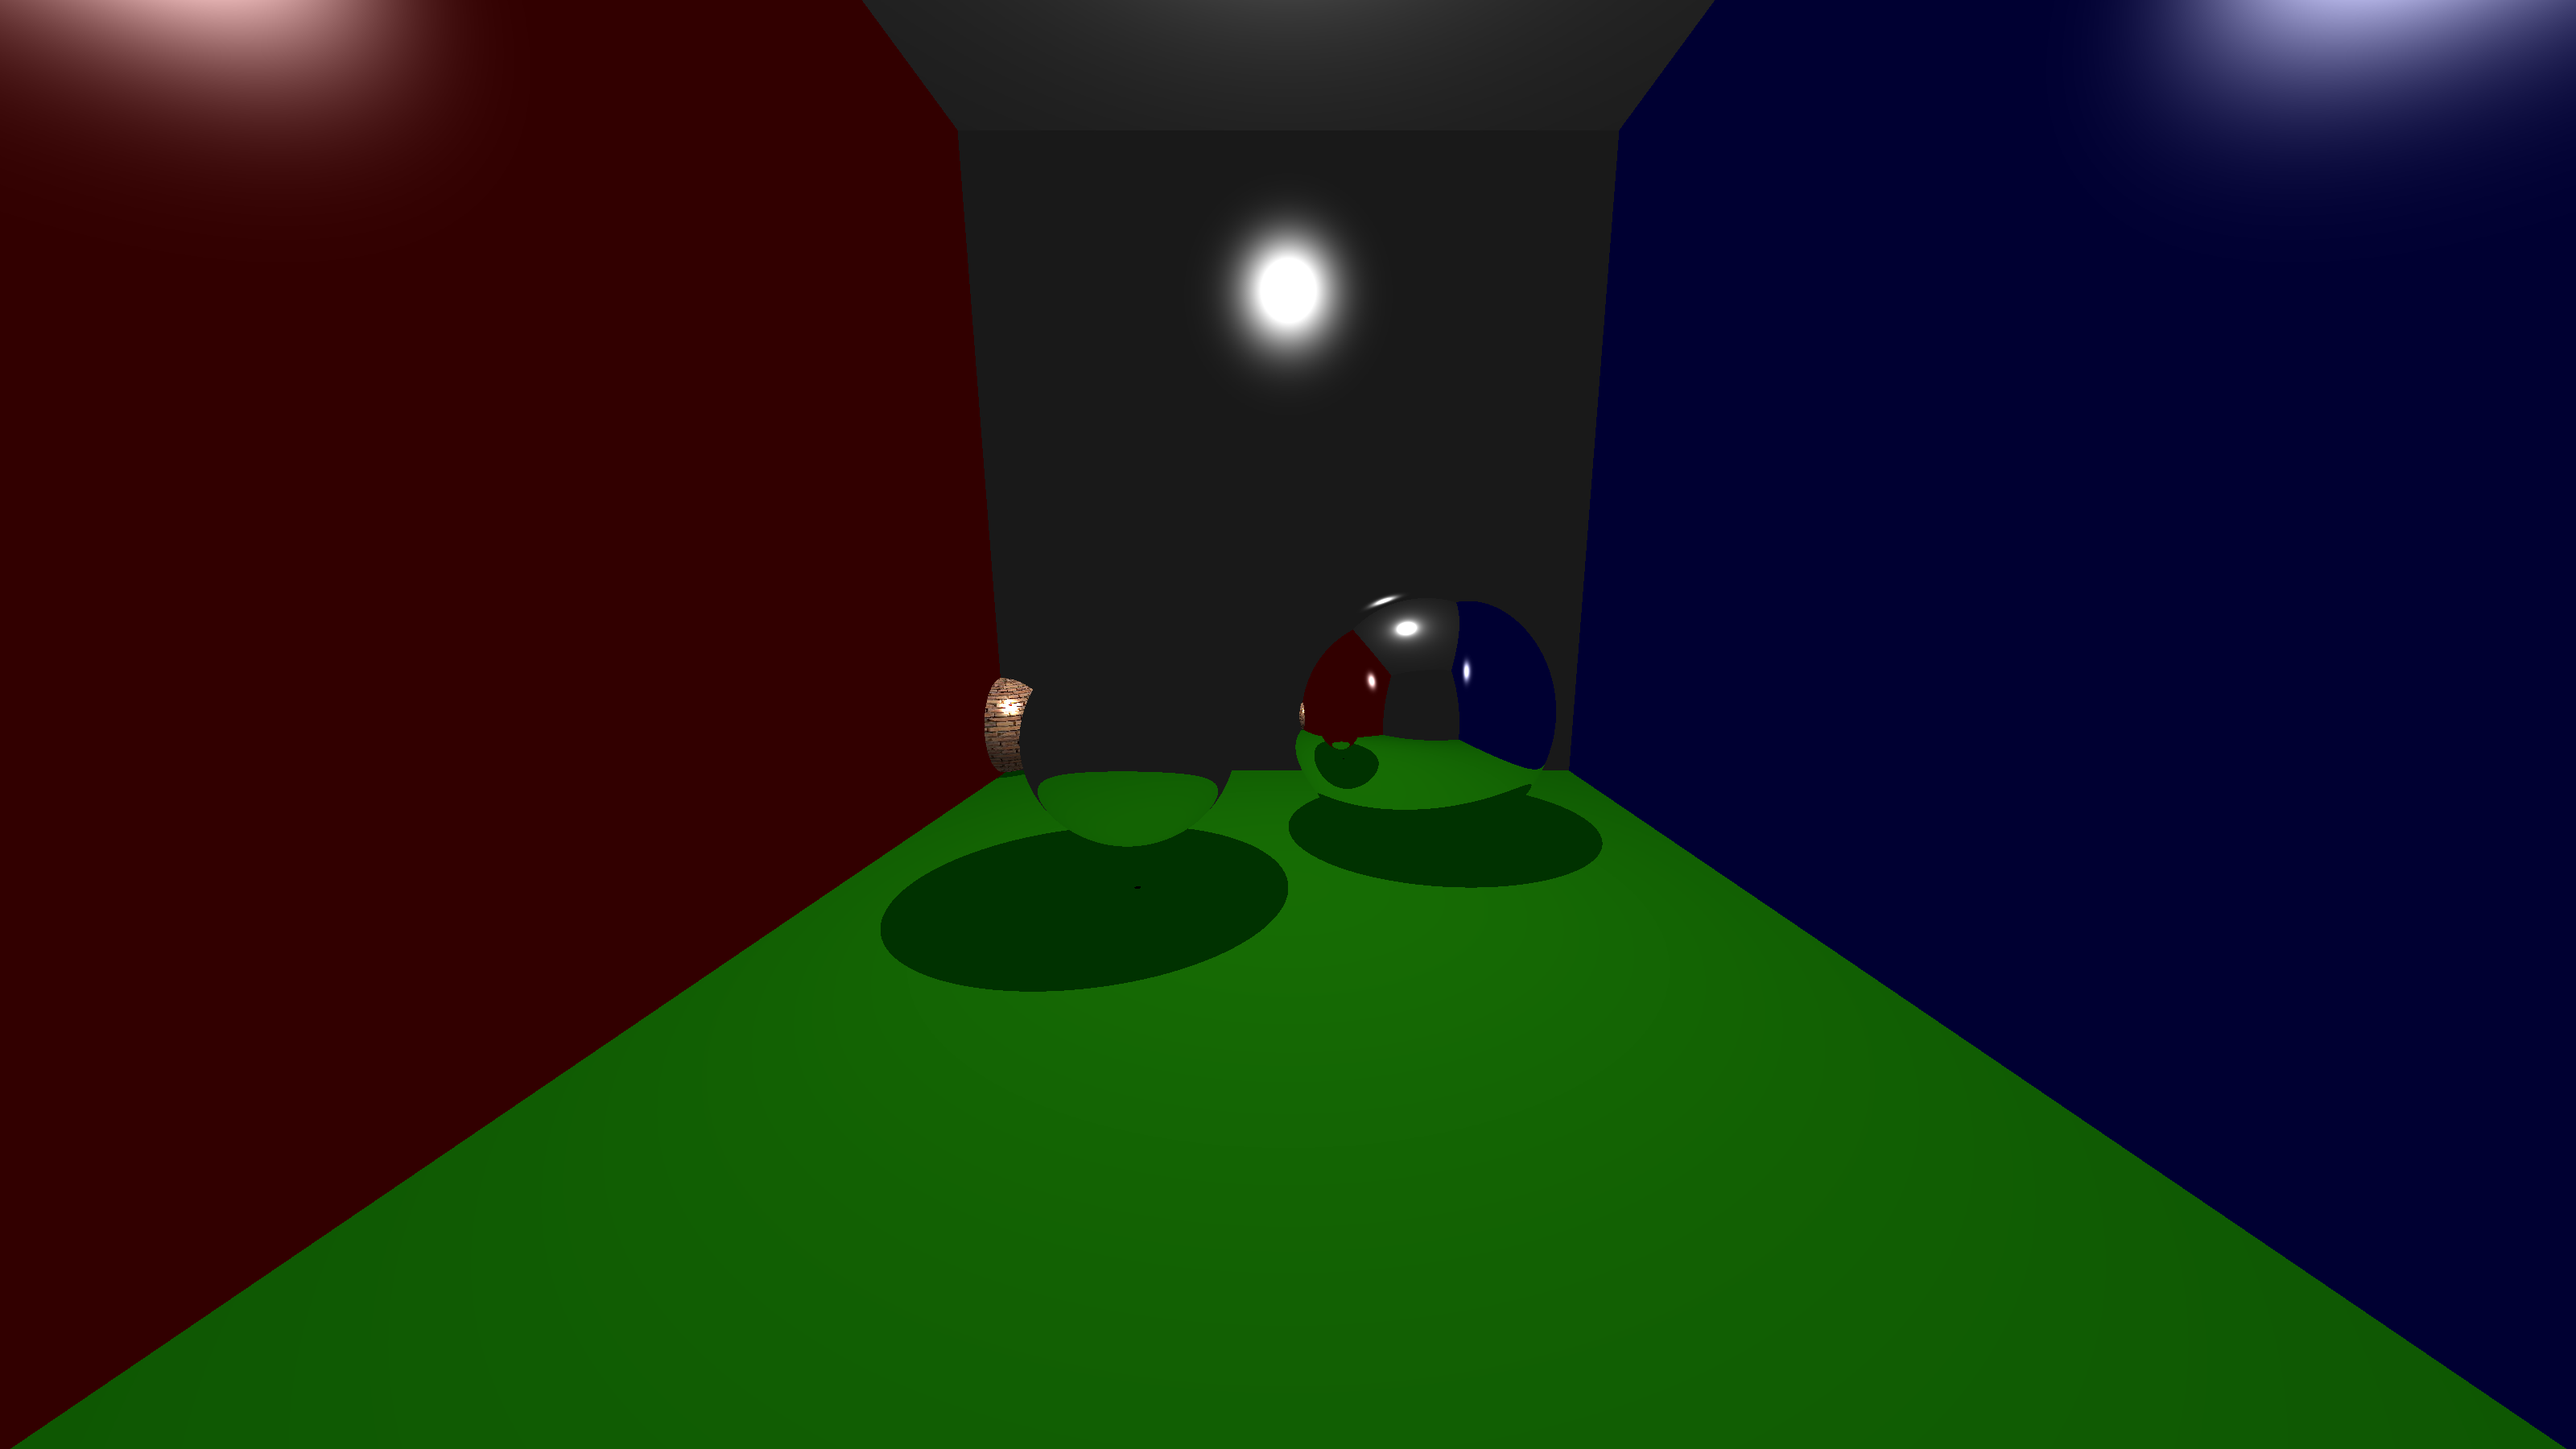
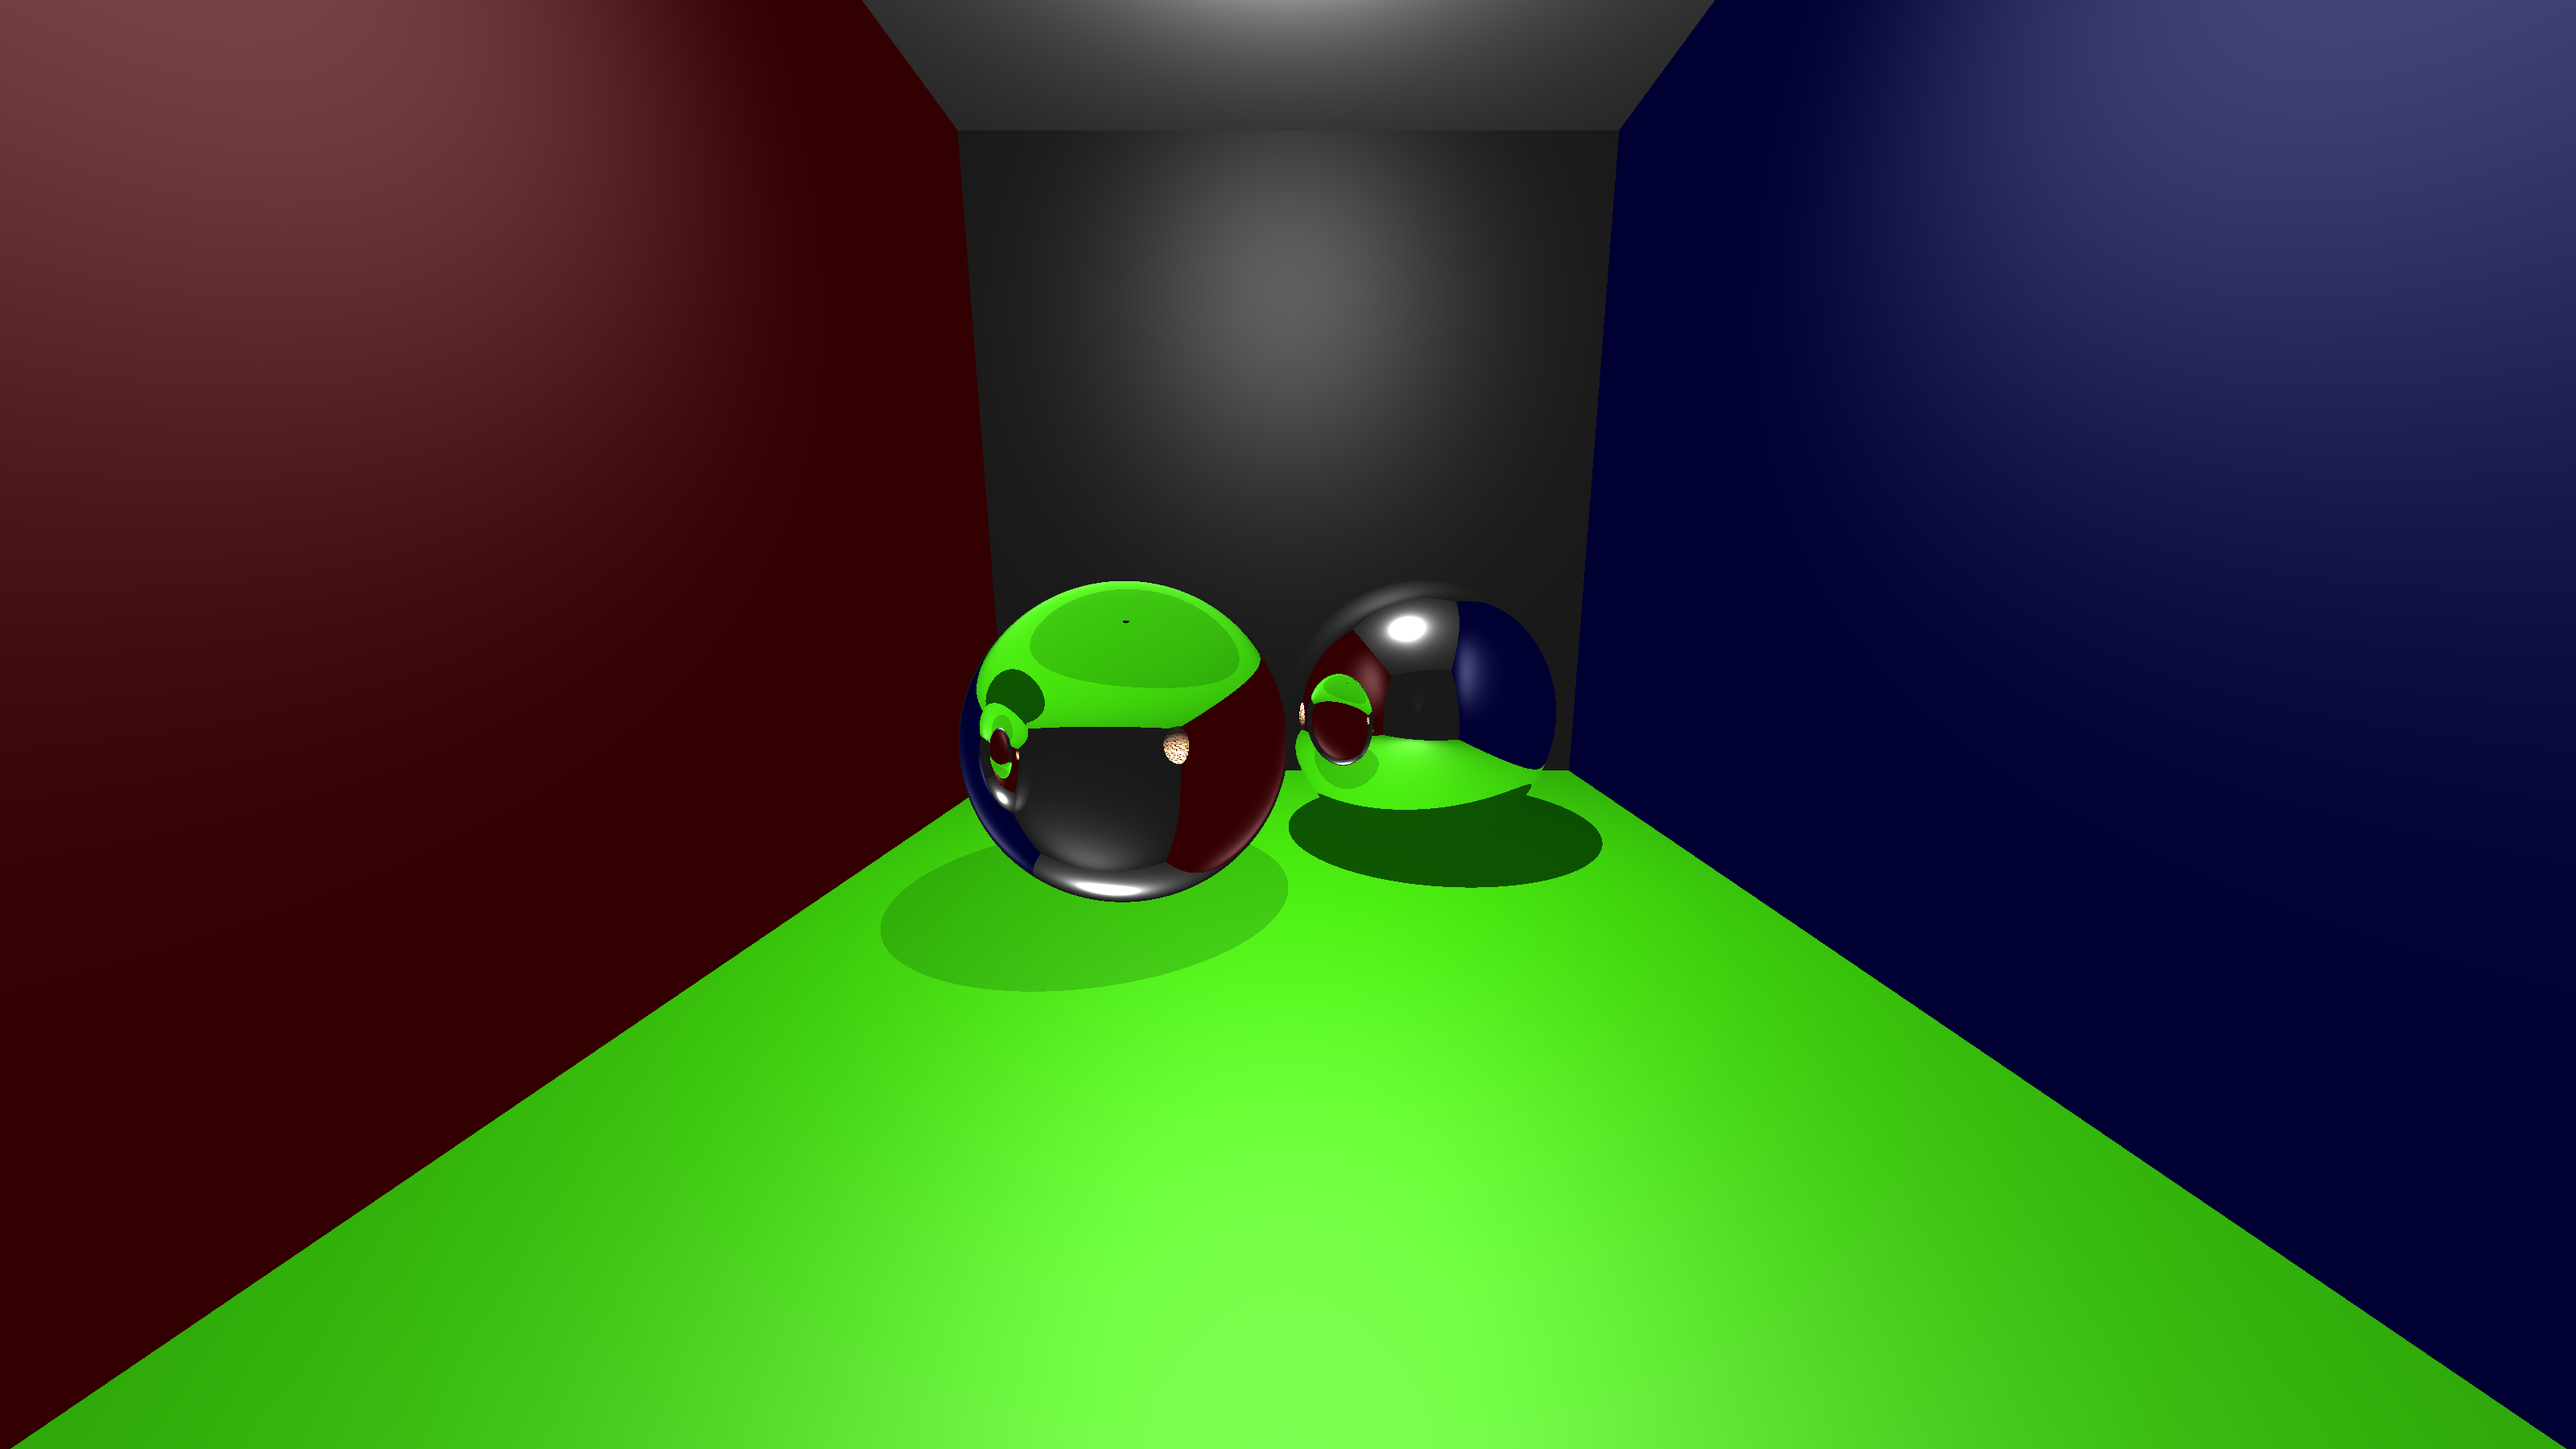
It is all done

diff --git a/IK_Raytracer/IK_Raytracer/LightIntensity.cpp b/IK_Raytracer/IK_Raytracer/LightIntensity.cpp
@@ -210,7 +210,8 @@ LightIntensity LightIntensity::operator*(vec3 v)
 LightIntensity LightIntensity::GetColorFromRay(const Ray& r, Hitable* world, vec3 cameraPosition, std::vector<PointLight> pointLights, std::vector<DirectionalLight> directionalLights, int bounce)
 {
 	hitRecord rec;
-	float shadowIntensity = 0.0f; // 0 - black , 1 - no shadow
+	float shadowIntensity = 0.20f; // 0 - black , 1 - no shadow
+	vec3 attenuation;
 
 	if (world->hit(r, 0.001, 10000, rec))
 	{
@@ -229,13 +230,17 @@ LightIntensity LightIntensity::GetColorFromRay(const Ray& r, Hitable* world, vec
 
 		else if (rec.materialPtr->isRefractor && bounce < 5)
 		{
+			rec.materialPtr->refraction = 2.0f - rec.materialPtr->refraction;
 			vec3 refractedDir;
 			vec3 uv = unit_vector(r.direction());
-			float dt = dot(uv, -rec.normal);
-			float discriminant = 1.0 - rec.materialPtr->refraction * rec.materialPtr->refraction * (1 - dt * dt);
-			if (discriminant > 0)
+			//float dt = dot(uv, -rec.normal);
+			//float discriminant = 1.0 - rec.materialPtr->refraction * rec.materialPtr->refraction * (1 - dt * dt);
+			float cosi = dot(rec.normal, uv);
+
+			if (cosi > 0)
 			{
-				refractedDir = rec.materialPtr->refraction * (uv - rec.normal * dt) - rec.normal * sqrt(discriminant);
+				//refractedDir = rec.materialPtr->refraction * (uv - rec.normal * dt) - rec.normal * sqrt(discriminant);
+				refractedDir = (uv * rec.materialPtr->refraction - rec.normal * (-cosi + rec.materialPtr->refraction * cosi));
 			}
 			else
 			{
@@ -244,7 +249,11 @@ LightIntensity LightIntensity::GetColorFromRay(const Ray& r, Hitable* world, vec
 
 			Ray refractedRay(rec.p, refractedDir);
 
-			return GetColorFromRay(refractedRay, world, cameraPosition, pointLights, directionalLights, bounce++);
+			if (bounce == 0)
+			{
+				attenuation = rec.materialPtr->mDiffuse;
+			}
+			return GetColorFromRay(refractedRay, world, cameraPosition, pointLights, directionalLights, bounce++);// * rec.materialPtr->mDiffuse;
 		}
 
 		else
@@ -255,12 +264,20 @@ LightIntensity LightIntensity::GetColorFromRay(const Ray& r, Hitable* world, vec
 				Ray shadowRay(rec.p, unit_vector(pointLights.at(i).location -rec.p));
 
 				// shadow
-				if (world->hit(shadowRay, 0.001, 100000, shadowRec) && shadowRec.materialPtr->isTransparent == false && rec.materialPtr->isRefractor == false)
+				if (world->hit(shadowRay, 0.001, 100000, shadowRec) && shadowRec.materialPtr->isTransparent == false)
 				{
-
-					ambientColor +=  pointLights.at(i).ambientColor;
-					//specularColor += pointLights.at(i).getSpecular(rec, -cameraPosition, rec.materialPtr->shininess) * shadowIntensity;
-					diffuseColor += pointLights.at(i).getDiffuse(rec) * shadowIntensity;
+					if (shadowRec.materialPtr->isRefractor == true)
+					{
+						ambientColor += pointLights.at(i).ambientColor;
+						specularColor += pointLights.at(i).getSpecular(rec, -cameraPosition, rec.materialPtr->shininess) * shadowIntensity * 4;
+						diffuseColor += pointLights.at(i).getDiffuse(rec) * shadowIntensity * 4;
+					}
+					else
+					{
+						ambientColor +=  pointLights.at(i).ambientColor;
+						//specularColor += pointLights.at(i).getSpecular(rec, -cameraPosition, rec.materialPtr->shininess) * shadowIntensity;
+						diffuseColor += pointLights.at(i).getDiffuse(rec) * shadowIntensity;
+					}
 			
 				}
 				// no shadow

diff --git a/IK_Raytracer/IK_Raytracer/IK_Raytracer.cpp b/IK_Raytracer/IK_Raytracer/IK_Raytracer.cpp
@@ -56,25 +56,25 @@ int main()
 
     Material* earthMat = new Material(new ImageTexture(earthTexData, nX, nY), vec3(255, 255, 255), 32);
 
-    Material* grassMat = new Material(vec3(0, 20, 0), vec3(100, 255, 20), vec3(0, 0, 0), 64);
+    Material* grassMat = new Material(vec3(0, 20, 0), vec3(100, 255, 20), vec3(10, 10, 10), 3);
     materials.push_back(grassMat);
 
-    Material* redMat = new Material(vec3(20, 0, 0), vec3(500, 0, 0), vec3(50, 50, 50), 64);
+    Material* redMat = new Material(vec3(20, 0, 0), vec3(500, 0, 0), vec3(10, 10, 10), 4);
     materials.push_back(redMat);
 
-    Material* blueMat = new Material(vec3(0, 0, 20), vec3(0, 0, 500), vec3(50, 50, 50), 64);
+    Material* blueMat = new Material(vec3(0, 0, 20), vec3(0, 0, 500), vec3(10, 10, 10), 4);
     materials.push_back(redMat);
 
-    Material* whiteMat = new Material(vec3(10, 10, 10), vec3(255, 255, 255), vec3(50, 50, 50), 64);
+    Material* whiteMat = new Material(vec3(10, 10, 10), vec3(255, 255, 255), vec3(10, 10, 10), 4);
     materials.push_back(whiteMat);
 
     Material* transMat = new Material(vec3(255, 255, 255), vec3(255, 255, 255), vec3(255, 255, 255), 1, true);
     //materials.push_back(transMat);
 
-    Material* refractMat = new Material(vec3(255, 255, 255), vec3(255, 255, 255), 8, true, 1.5);
+    Material* refractMat = new Material(vec3(255, 255, 255), vec3(255, 255, 255), 8, true, 2.31);
     //materials.push_back(refractMat);
 
-    Material* mirrorMat = new Material(vec3(255, 255, 255), vec3(255, 255, 255), 8, 1.0, true);
+    Material* mirrorMat = new Material(vec3(255, 0, 0), vec3(255, 255, 255), 8, 1.0, true);
     //materials.push_back(mirrorMat);
 
     // Vector of hitable objects
@@ -131,7 +131,7 @@ int main()
     std::vector<PointLight> pointLights;
     std::vector<DirectionalLight> directionalLights;
 
-    pointLights.push_back(PointLight(vec3(1.0, 1.0, 1.0), vec3(1.0, 1.0, 1.0), vec3(0, 9.5, -1), 0.5f, 200.0f, 8.0f, 700.0f));
+    pointLights.push_back(PointLight(vec3(1.0, 1.0, 1.0), vec3(1.0, 1.0, 1.0), vec3(0, 9.5, -1), 0.5f, 20.0f, 8.0f, 700.0f));
 
     std::cout << hitables.size() << std::endl;
 
